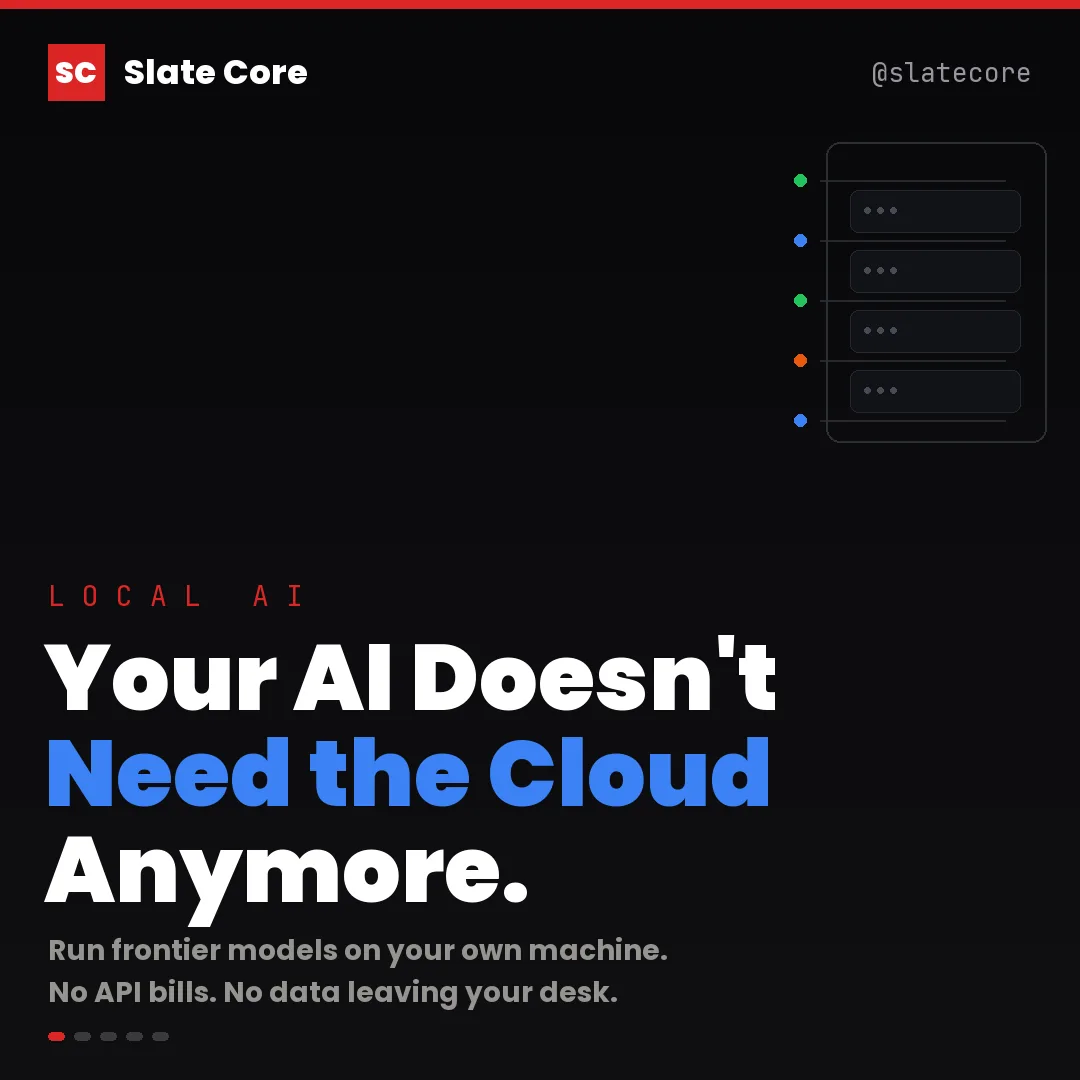
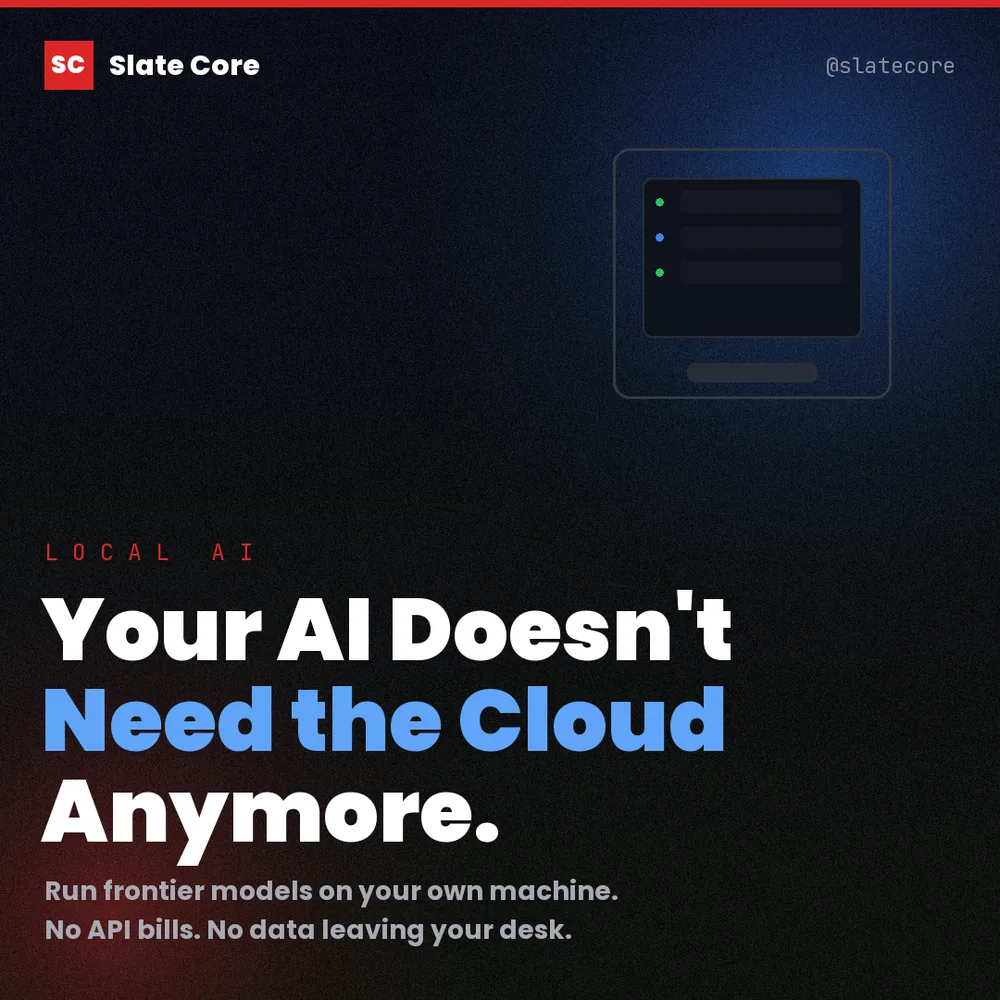
Update Post #018 cover with new gradient background, 4 slides

diff --git a/posts-data.js b/posts-data.js
@@ -13,7 +13,7 @@ const MASTERAI_POSTS = [
     description: "Open-weight models caught up, quantization cut memory by 75%, and consumer hardware got fast enough. How to run AI on your own machine — and what it actually costs.",
     image: "assets/covers/cover-post-018.webp",
     date: "Nov 23, 2026",
-    slidesCount: 5,
+    slidesCount: 4,
     igLink: "https://www.instagram.com/slatecore/",
     tags: ["LocalAI", "Ollama", "LLM", "OpenSource", "SelfHosting"],
     accentColor: "#3b82f6"
